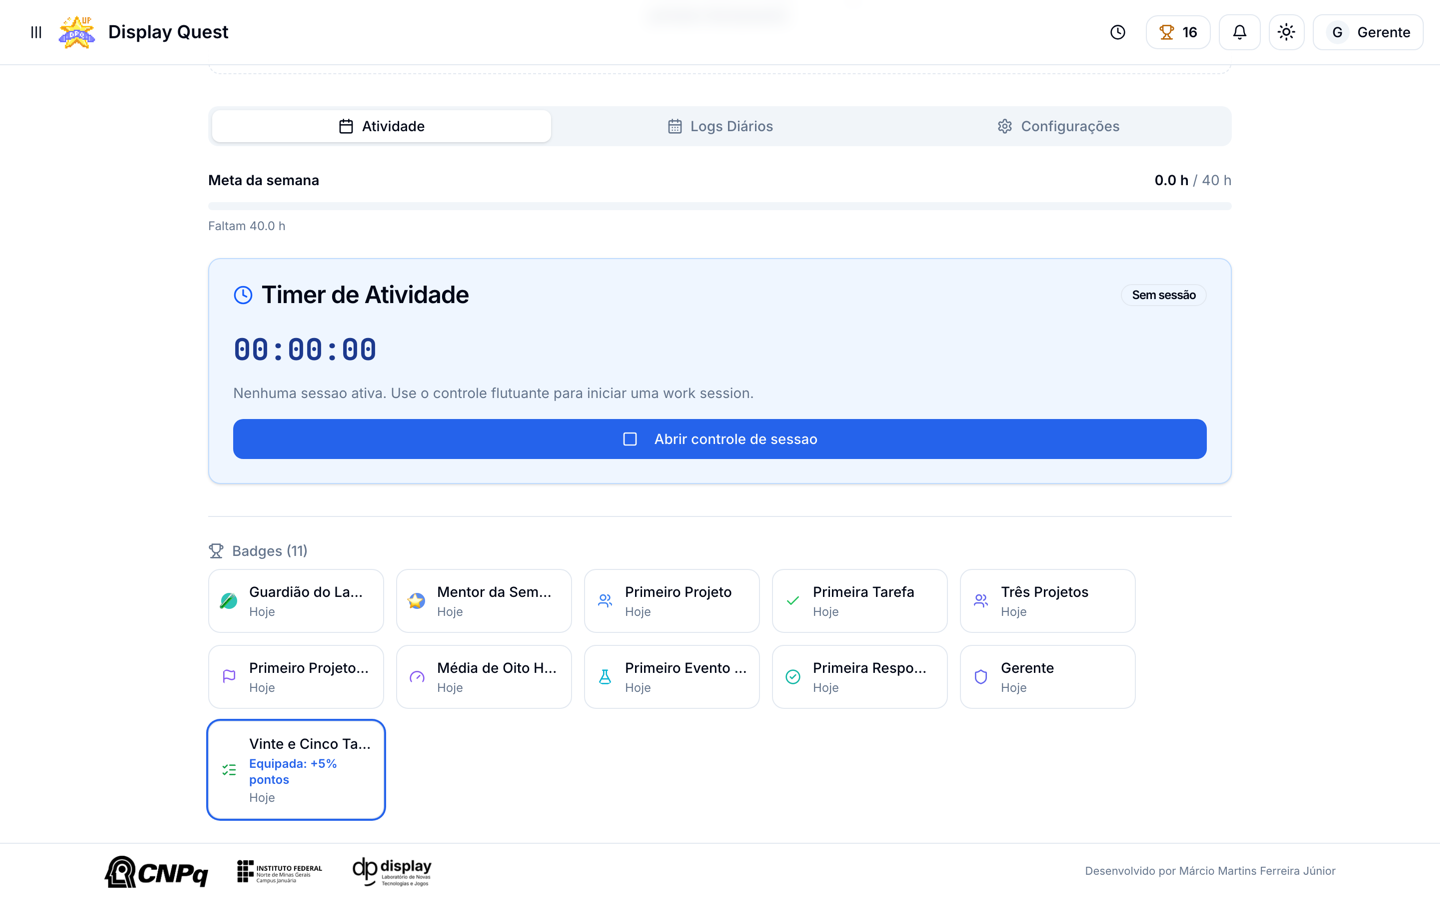
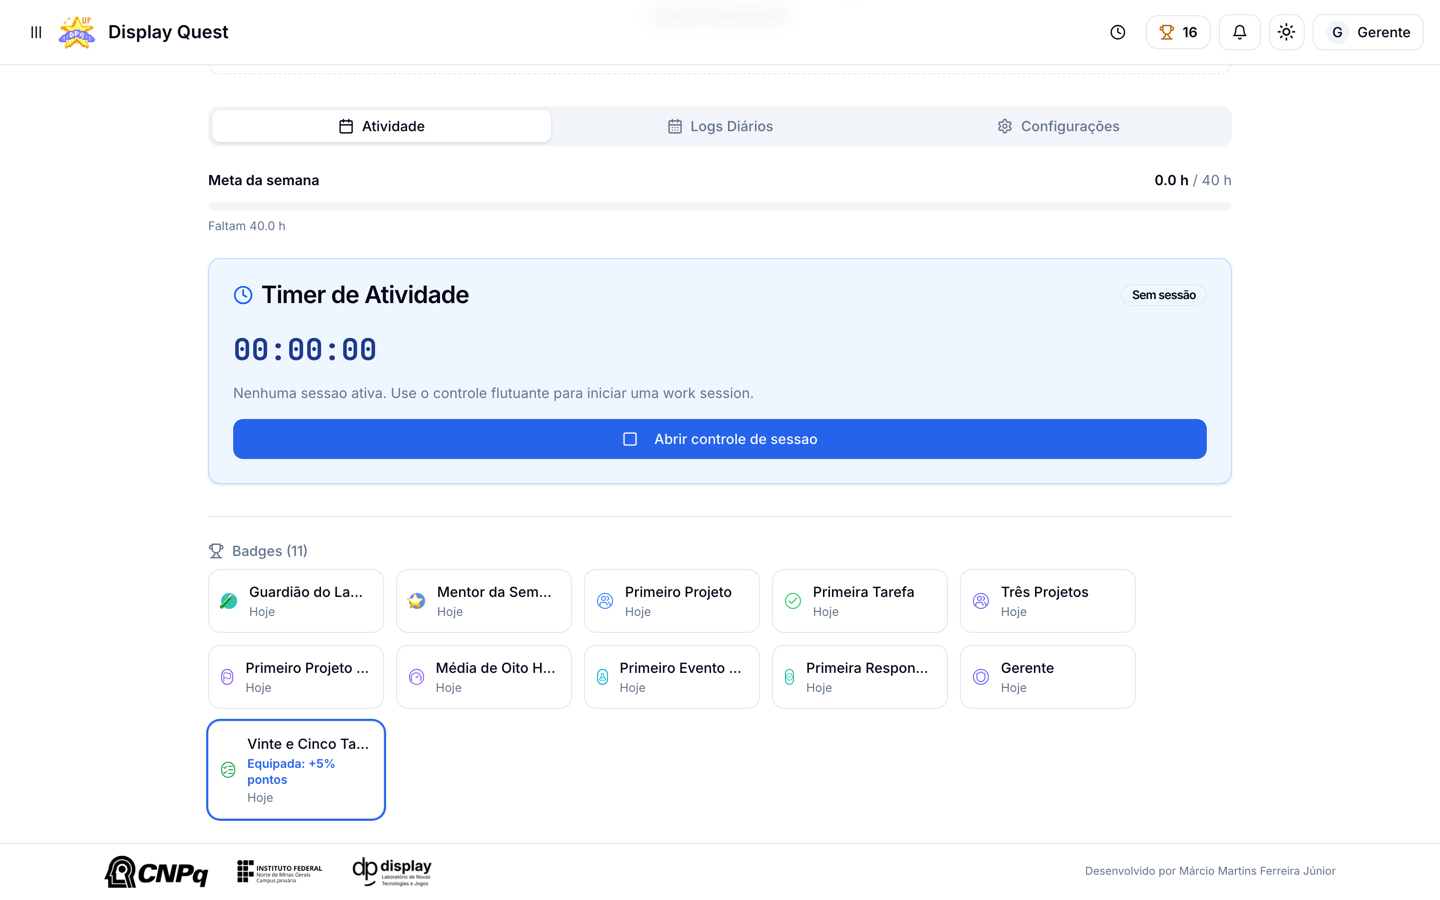
S01: ícone de badge dentro de círculo visível na cor da badge
Plan-v19 S01 (DEC-251, dono 2026-11-06): a vitrine media o glifo solto — o WebP
do catálogo tem fundo transparente e o img rounded-full não desenhava nada. O
caminho iconKey de BadgeMedallion passa a envolver o img num slot arredondado
com contorno na cor da badge (border-2 md, border sm, h-7/h-3 por dentro).
Vale para as cinco superfícies que consomem a peça: vitrine md, bloco sm,
picker de equipar, painel admin, diálogo de ícone. Regras de vitrine de DEC-245
intactas: só equipadas, máx 3, sem círculo vazio.

Guardas: badge-medallion congela a cadeia antiga + o círculo novo (a guarda de
plan-v17 estava em e24252f e foi preservada, 5 testes + 4 novos);
profile-card-equipped-badges e profile-settings-equip-picker passam a medir o
círculo do wrapper. Suíte 297 arquivos / 2918 testes na 5433, tsc 0, eslint
sem erro. Capturas na instância docker 3000 reconstruída: vitrine do gerente é
um círculo verde com o ícone dentro; chips do bloco idem.

diff --git a/tests/unit/components/badge-medallion.test.tsx b/tests/unit/components/badge-medallion.test.tsx
@@ -4,6 +4,11 @@
  * Cadeia fechada do medálhão: imagem do bucket (rota autenticada com `?v=<chave>`) >
  * texto `icon` sobre `color` > Lucide da categoria. Chips, medálhões do card e picker
  * consomem a mesma peça. O rótulo de categoria vem do domínio, não de cópia na tela.
+ *
+ * plan-v19 S01 (DEC-251): o caminho da chave fecha o círculo — o ícone mora DENTRO de
+ * um slot arredondado com contorno na cor da badge. O WebP do catálogo tem fundo
+ * transparente, e o `img` `rounded-full` não desenha nada (medido na vitrine: glifo
+ * solto). Os caminhos de texto e de categoria já são círculos visíveis e não mudam.
  */
 import { describe, expect, it } from "vitest";
 import { render, screen } from "@testing-library/react";
@@ -24,12 +29,12 @@ function b(over: Partial<MedallionBadge> = {}): MedallionBadge {
 }
 
 describe("BadgeMedallion", () => {
-  it("chave → img da rota autenticada, com a chave como quebra de cache, em círculo", () => {
+  it("chave → img da rota autenticada, com a chave como quebra de cache, dentro do círculo", () => {
     render(<BadgeMedallion badge={b({ iconKey: "badges/3/x.webp" })} size="md" />);
     const img = screen.getByRole("img", { name: "Ícone do Selo 3" });
     expect(img.getAttribute("src")).toContain("/api/badges/3/icon/file");
     expect(img.getAttribute("src")).toContain("v=badges%2F3%2Fx.webp");
-    expect(img.className).toContain("rounded-full");
+    expect(img.parentElement!.className).toContain("rounded-full");
   });
 
   it("sem chave: o texto `icon` sobre a cor do badge, sem img", () => {
@@ -59,5 +64,46 @@ describe("BadgeMedallion", () => {
     expect(badgeCategoryLabel("milestone")).toBe("Marco");
     expect(badgeCategoryLabel("special")).toBe("Especial");
     expect(badgeCategoryLabel("social")).toBe("Social");
+  });
+});
+
+describe("BadgeMedallion com iconKey (DEC-251)", () => {
+  const comChave = b({ iconKey: "badges/7/icon.webp", color: "#22c55e", category: "social" });
+
+  it("ícone dentro de círculo arredondado com contorno na cor da badge", () => {
+    render(<BadgeMedallion badge={comChave} size="md" />);
+    const img = screen.getByRole("img", { name: "Ícone do Selo 3" });
+    const circle = img.parentElement!;
+    expect(circle.className).toContain("rounded-full");
+    expect(circle.className).toMatch(/\bborder/);
+    expect(circle.getAttribute("style")).toContain("border-color: rgb(34, 197, 94);");
+    expect(circle.className).toContain("h-10");
+    expect(img.className).not.toContain("h-10");
+  });
+
+  it("size sm: círculo h-4 com o ícone dentro", () => {
+    render(<BadgeMedallion badge={comChave} size="sm" />);
+    const img = screen.getByRole("img", { name: "Ícone do Selo 3" });
+    const circle = img.parentElement!;
+    expect(circle.className).toContain("h-4");
+    expect(circle.className).toContain("rounded-full");
+    expect(circle.className).toMatch(/\bborder/);
+  });
+
+  it("sem cor: o círculo mantém contorno, sem cor de borda", () => {
+    render(<BadgeMedallion badge={{ ...comChave, color: null }} size="md" />);
+    const img = screen.getByRole("img", { name: "Ícone do Selo 3" });
+    const circle = img.parentElement!;
+    expect(circle.className).toContain("rounded-full");
+    expect(circle.className).toMatch(/\bborder/);
+    expect(circle.getAttribute("style")).toBeNull();
+  });
+
+  it("glifo de texto continua círculo na cor de fundo, como hoje", () => {
+    render(<BadgeMedallion badge={{ ...comChave, iconKey: null, icon: "🧪" }} size="md" />);
+    const glyph = screen.getByText("🧪");
+    const circle = glyph.parentElement!;
+    expect(circle.className).toContain("rounded-full");
+    expect(circle.getAttribute("style")).toContain("background-color:");
   });
 });

diff --git a/components/ui/badge-medallion.tsx b/components/ui/badge-medallion.tsx
@@ -66,12 +66,22 @@ export function BadgeMedallion({
   const box = size === "md" ? "h-10 w-10 rounded-full" : "h-4 w-4 rounded-full"
 
   if (badge.iconKey) {
+    // plan-v19 S01 (DEC-251): o ícone do bucket vive DENTRO de um círculo visível. O
+    // WebP do catálogo tem fundo transparente, e o img `rounded-full` não desenha nada
+    // (medido na vitrine: glifo solto no canto direito). O contorno segue a cor da badge.
+    const frame = size === "md" ? "h-10 w-10 border-2" : "h-4 w-4 border"
+    const inner = size === "md" ? "h-7 w-7" : "h-3 w-3"
     return (
-      <img
-        src={`/api/badges/${badge.id}/icon/file?v=${encodeURIComponent(badge.iconKey)}`}
-        alt={`Ícone do ${badge.name}`}
-        className={`${box} object-contain ${className}`}
-      />
+      <span
+        className={`flex items-center justify-center rounded-full ${frame} border-border ${className}`}
+        style={badge.color ? { borderColor: badge.color } : undefined}
+      >
+        <img
+          src={`/api/badges/${badge.id}/icon/file?v=${encodeURIComponent(badge.iconKey)}`}
+          alt={`Ícone do ${badge.name}`}
+          className={`${inner} object-contain`}
+        />
+      </span>
     )
   }
 

diff --git a/tests/unit/components/profile-card-equipped-badges.test.tsx b/tests/unit/components/profile-card-equipped-badges.test.tsx
@@ -58,7 +58,10 @@ describe("ProfileBadgeShowcase", () => {
 
     const imgs = await screen.findAllByRole("img", { name: /^Ícone do / });
     expect(imgs.map((i) => i.getAttribute("alt"))).toEqual(["Ícone do Equipada A", "Ícone do Equipada B"]);
-    expect(imgs[0].className).toContain("h-10");
+    // DEC-251: o medálhão da vitrine é o círculo; o img mora dentro dele.
+    expect(imgs[0].parentElement!.className).toContain("h-10");
+    expect(imgs[0].parentElement!.className).toContain("rounded-full");
+    expect(imgs[0].className).not.toContain("h-10");
     expect(screen.queryByText("Equipada A")).toBeNull();
     expect(screen.queryByText("Selo seco")).toBeNull();
     expect(screen.queryByText(/Em progresso X/)).toBeNull();

diff --git a/tests/unit/components/profile-settings-equip-picker.test.tsx b/tests/unit/components/profile-settings-equip-picker.test.tsx
@@ -80,7 +80,7 @@ describe("ProfileBadgeEquipPicker", () => {
     expect(screen.queryByText(/Em progresso X/)).toBeNull();
     expect(screen.getByText("Equipadas (1/3)")).toBeInTheDocument();
     expect(screen.getAllByText("+10% pontos")).toHaveLength(2);
-    expect(screen.getByRole("img", { name: "Ícone do Passiva A" })).toHaveClass("h-10");
+    expect(screen.getByRole("img", { name: "Ícone do Passiva A" }).parentElement).toHaveClass("h-10");
   });
 
   it("cliques chegam à rota com o alvo e o estado pedido; contador acompanha", async () => {
